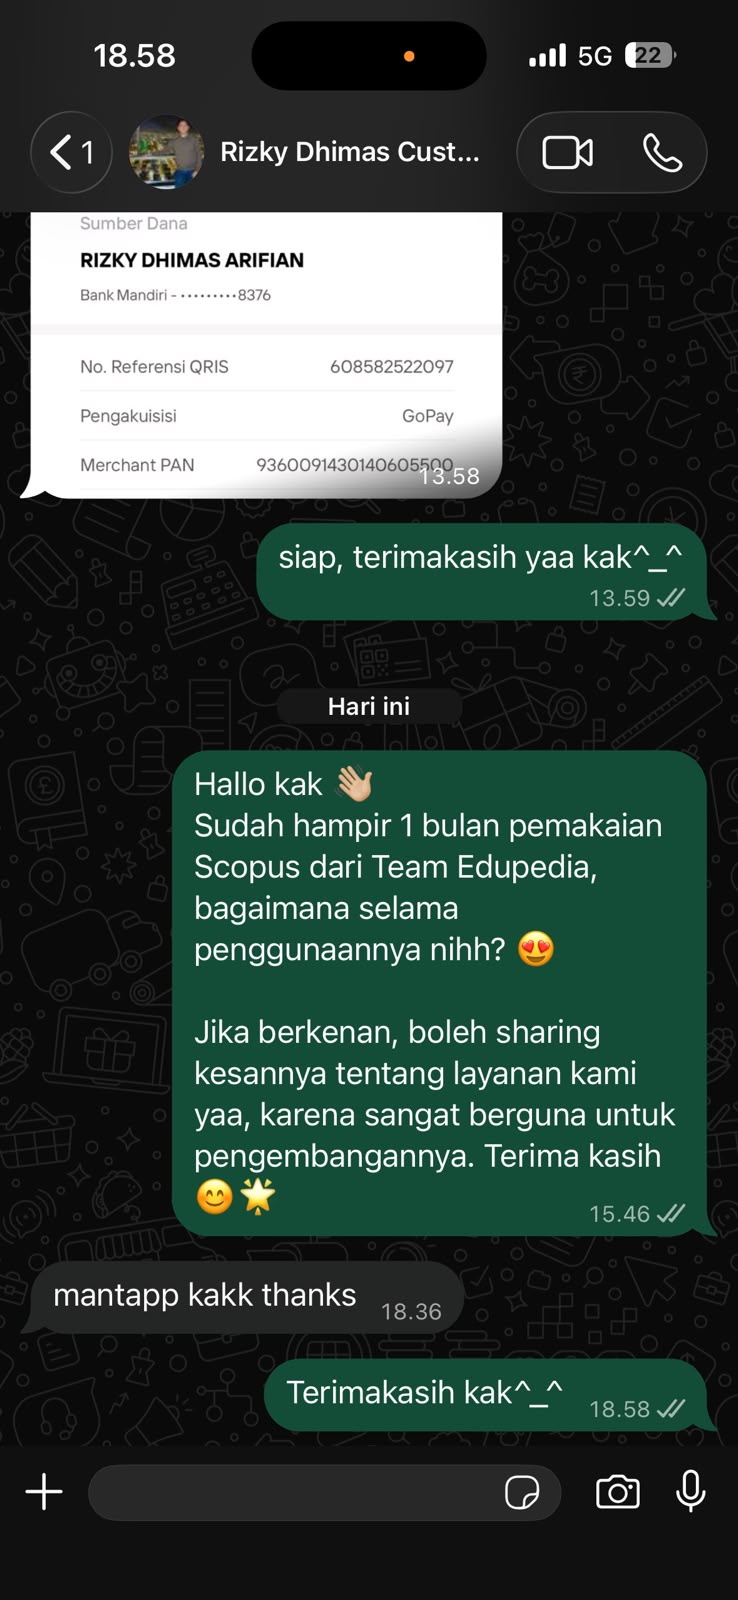
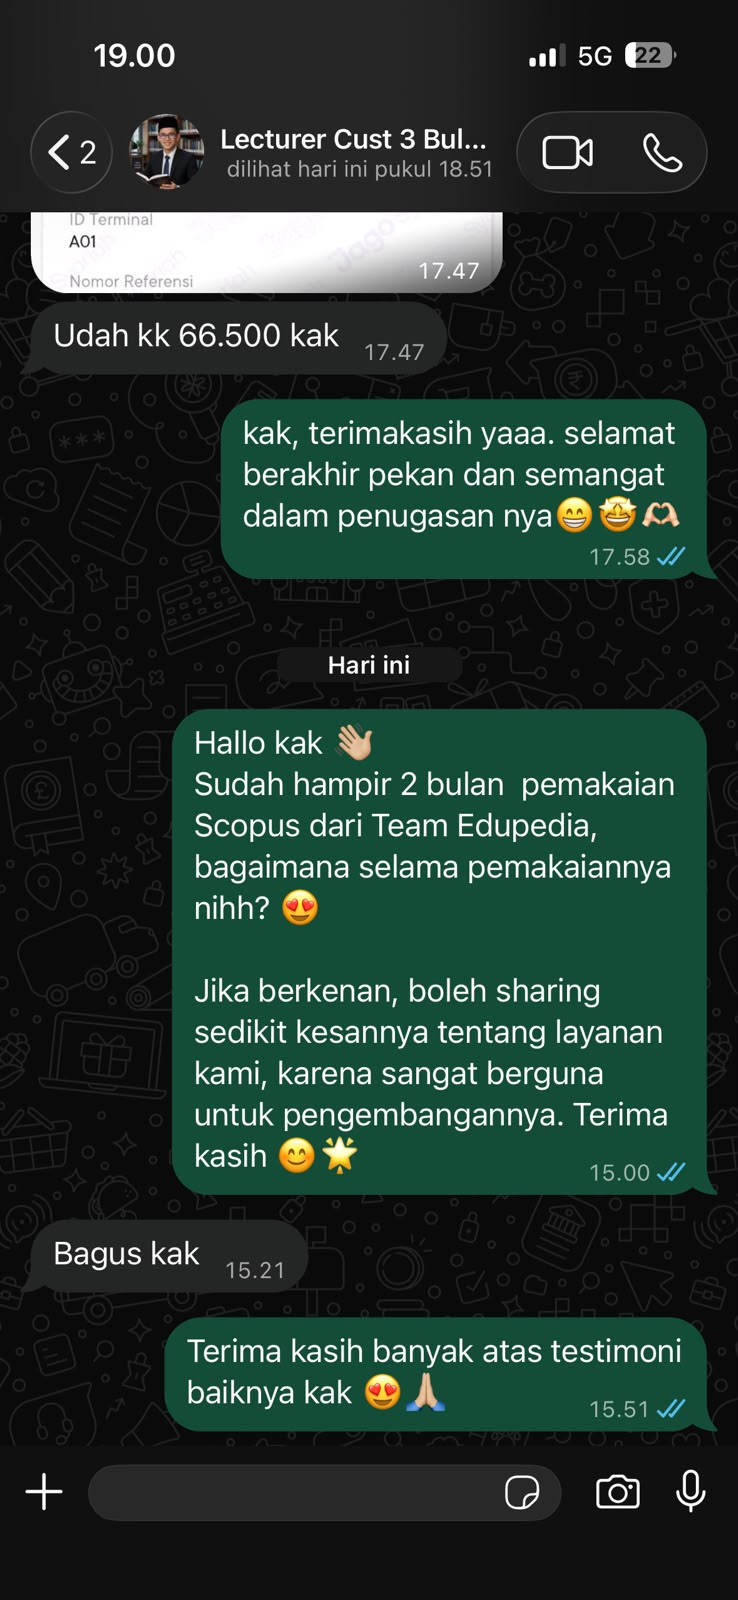
Move lifetime promo above packages and add two testimonials
Promo lifetime block now sits directly under the paket heading,
before the plan grid, with matching top spacing. Testimoni section
carries three WhatsApp screenshots instead of one.

diff --git a/index.html b/index.html
@@ -293,7 +293,9 @@
   </div>
   <div class="wrap rise">
     <div class="shots" role="group" aria-label="Testimoni pengguna">
-      <figure class="shot" style="margin:0;"><img loading="lazy" decoding="async" width="738" height="1600" alt="Tangkapan layar WhatsApp: pengguna membalas “mantapp kakk thanks” setelah hampir 1 bulan memakai Scopus dari Team EduPedia" src="public/img/testimoni-1.jpeg"></figure>
+      <figure class="shot" style="margin:0;"><img loading="lazy" decoding="async" width="738" height="1600" alt="Tangkapan layar WhatsApp: dosen membalas “Bagus kak” setelah hampir 2 bulan memakai Scopus dari Team EduPedia" src="public/img/testimoni-1.jpeg"></figure>
+      <figure class="shot" style="margin:0;"><img loading="lazy" decoding="async" width="738" height="1600" alt="Tangkapan layar WhatsApp: pengguna membalas “Wah masyaAllah pokoknya TERBAIK, aku pasti bakal pakai lagi kalo ada project penelitian lagi” setelah hampir 1 bulan memakai Scopus dari Team EduPedia" src="public/img/testimoni-2.jpeg"></figure>
+      <figure class="shot" style="margin:0;"><img loading="lazy" decoding="async" width="738" height="1600" alt="Tangkapan layar WhatsApp: pengguna membalas “mantapp kakk thanks” setelah hampir 1 bulan memakai Scopus dari Team EduPedia" src="public/img/testimoni-3.jpeg"></figure>
     </div>
   </div>
 </section>
@@ -307,6 +309,34 @@
         <div class="head">
           <h2>Pilih paket yang paling masuk akal</h2>
           <p class="priceline">Langganan Scopus untuk satu institusi berharga <b>milyaran rupiah per tahun</b>. Akses yang sama, untuk Bapak/Ibu sendiri, mulai <b>Rp50.000 untuk 1 bulan</b>.</p>
+        </div>
+
+        <!-- PROMO LIFETIME -->
+        <div class="life">
+          <div class="life__info">
+            <span class="fieldtag life__tag">Promo Paket Lifetime</span>
+            <h3 class="life__title">Ajak rekan riset, akses selamanya lebih hemat</h3>
+            <ul class="plan__incl life__incl">
+              <li><span class="plan__tick" aria-hidden="true">✓</span><span>Setiap akun mendapat semua isi <b>Paket Lifetime</b></span></li>
+              <li><span class="plan__tick" aria-hidden="true">✓</span><span>Include <b>ScienceDirect</b>, <b>ClinicalKey</b> &amp; <b>SciVal</b></span></li>
+              <li><span class="plan__tick" aria-hidden="true">✓</span><span><b>Lebih banyak artikel</b> yang ter-unlock</span></li>
+              <li><span class="plan__tick" aria-hidden="true">✓</span><span><b>Full Garansi</b></span></li>
+            </ul>
+          </div>
+          <div class="life__offers">
+            <div class="offer">
+              <span class="offer__badge">Buy 1 Get 1</span>
+              <div class="offer__price">Rp450.000</div>
+              <div class="offer__per">2 akun lifetime</div>
+              <a class="btn btn--onblue" target="_blank" rel="noopener" href="https://wa.me/6281313537148?text=Halo%20EduPedia%2C%20saya%20mau%20ambil%20Promo%20Lifetime%20Buy%201%20Get%201%20(Rp450.000).%20Mohon%20informasi%20langkah%20selanjutnya.">Ambil Buy 1 Get 1</a>
+            </div>
+            <div class="offer">
+              <span class="offer__badge">Buy 2 Get 1</span>
+              <div class="offer__price">Rp700.000</div>
+              <div class="offer__per">3 akun lifetime</div>
+              <a class="btn btn--onblue" target="_blank" rel="noopener" href="https://wa.me/6281313537148?text=Halo%20EduPedia%2C%20saya%20mau%20ambil%20Promo%20Lifetime%20Buy%202%20Get%201%20(Rp700.000).%20Mohon%20informasi%20langkah%20selanjutnya.">Ambil Buy 2 Get 1</a>
+            </div>
+          </div>
         </div>
 
         <div class="plans">
@@ -379,34 +409,6 @@
               <li><span class="plan__tick" aria-hidden="true">✓</span><span><b>Full Garansi</b></span></li>
             </ul>
             <a class="btn btn--ink" target="_blank" rel="noopener" href="https://wa.me/6281313537148?text=Halo%20EduPedia%2C%20saya%20mau%20ambil%20Paket%20Lifetime%20(Rp350.000).%20Mohon%20informasi%20langkah%20selanjutnya.">Ambil paket lifetime</a>
-          </div>
-        </div>
-
-        <!-- PROMO LIFETIME -->
-        <div class="life">
-          <div class="life__info">
-            <span class="fieldtag life__tag">Promo Paket Lifetime</span>
-            <h3 class="life__title">Ajak rekan riset, akses selamanya lebih hemat</h3>
-            <ul class="plan__incl life__incl">
-              <li><span class="plan__tick" aria-hidden="true">✓</span><span>Setiap akun mendapat semua isi <b>Paket Lifetime</b></span></li>
-              <li><span class="plan__tick" aria-hidden="true">✓</span><span>Include <b>ScienceDirect</b>, <b>ClinicalKey</b> &amp; <b>SciVal</b></span></li>
-              <li><span class="plan__tick" aria-hidden="true">✓</span><span><b>Lebih banyak artikel</b> yang ter-unlock</span></li>
-              <li><span class="plan__tick" aria-hidden="true">✓</span><span><b>Full Garansi</b></span></li>
-            </ul>
-          </div>
-          <div class="life__offers">
-            <div class="offer">
-              <span class="offer__badge">Buy 1 Get 1</span>
-              <div class="offer__price">Rp450.000</div>
-              <div class="offer__per">2 akun lifetime</div>
-              <a class="btn btn--onblue" target="_blank" rel="noopener" href="https://wa.me/6281313537148?text=Halo%20EduPedia%2C%20saya%20mau%20ambil%20Promo%20Lifetime%20Buy%201%20Get%201%20(Rp450.000).%20Mohon%20informasi%20langkah%20selanjutnya.">Ambil Buy 1 Get 1</a>
-            </div>
-            <div class="offer">
-              <span class="offer__badge">Buy 2 Get 1</span>
-              <div class="offer__price">Rp700.000</div>
-              <div class="offer__per">3 akun lifetime</div>
-              <a class="btn btn--onblue" target="_blank" rel="noopener" href="https://wa.me/6281313537148?text=Halo%20EduPedia%2C%20saya%20mau%20ambil%20Promo%20Lifetime%20Buy%202%20Get%201%20(Rp700.000).%20Mohon%20informasi%20langkah%20selanjutnya.">Ambil Buy 2 Get 1</a>
-            </div>
           </div>
         </div>
 

diff --git a/public/css/style.css b/public/css/style.css
@@ -1171,7 +1171,7 @@ header[id] {
 
 /* lifetime promo — full-width navy card under the plans */
 .life {
-  margin-top: 20px;
+  margin-top: clamp(30px, 4vw, 44px);
   display: grid;
   gap: 24px;
   padding: 30px 26px;
